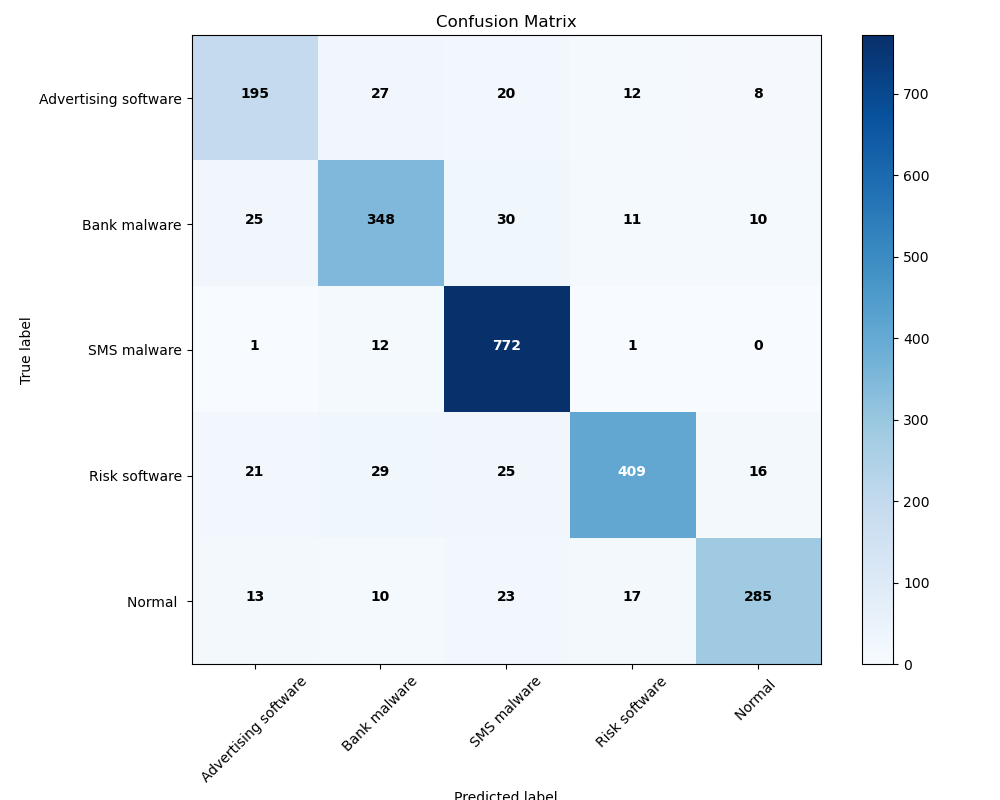
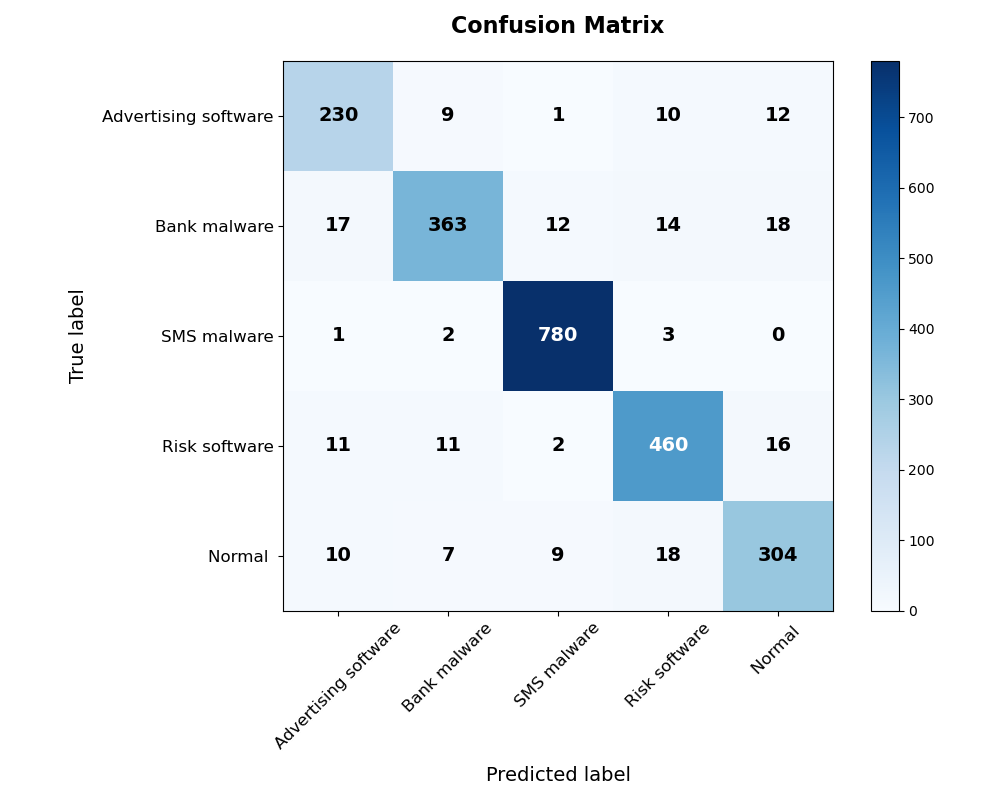
Add files via upload

diff --git a/templates/index.html b/templates/index.html
@@ -2,61 +2,78 @@
 <html lang="en">
 <head>
     <meta charset="UTF-8">
+    <meta name="viewport" content="width=device-width, initial-scale=1.0">
     <title>Model Results</title>
     <style>
         body {
-            font-family: 'Arial', sans-serif;
+            font-family: 'Segoe UI', Tahoma, Geneva, Verdana, sans-serif;
             margin: 0;
             padding: 0;
-            background: #f7f7f7;
+            background: #edf2f7;
+            color: #333;
         }
         .container {
-            width: 95%;
-            margin-top: 20px;
+            max-width: 95%;
+            margin: 2% auto;
             padding: 20px;
-            text-align: center;
+            background: #fff;
+            box-shadow: 0 0 10px rgba(0, 0, 0, 0.1);
+            border-radius: 8px;
+            overflow: hidden;
         }
-        .graph {
-            margin-bottom: 20px;
+        .header {
+            background-color: #4a5568;
+            color: #fff;
+            padding: 10px 0;
+            margin-bottom: 30px;
         }
-        .graph img {
-            max-width: 80%; /* Adjust the width as needed */
-            margin-bottom: 20px;
+        h1 {
+            margin: 0;
         }
-        .full-row img {
-            max-width: 60%; /* Adjust for the training loss graph */
-        }
-        .half-row {
+        .graph-container {
             display: flex;
+            flex-wrap: wrap;
             justify-content: space-around;
+            align-items: center;
         }
-        .half-row img {
-            max-width: 45%; /* Adjust for the ROC and PR curves */
+        .graph-container div {
+            flex: 0 1 48%;
+            margin-bottom: 20px;
+        }
+        img {
+            max-width: 100%;
+            height: auto;
+            border: 1px solid #ddd;
+            border-radius: 4px;
+            box-shadow: 0 2px 4px rgba(0, 0, 0, 0.05);
         }
         pre {
-            background: #fff;
-            padding: 20px;
+            background: #f7fafc;
+            padding: 15px;
             overflow: auto;
-            border: 1px solid #ddd;
+            border: 1px solid #e2e8f0;
+            border-radius: 4px;
+            font-size: 0.85em;
+            width: auto;
+            margin: 20px 0;
             text-align: left;
-            font-size: 1em; /* Adjust the font size as needed */
-            width: 80%; /* Adjust the width as needed */
-            margin: 20px auto; /* This will center the classification report */
+            white-space: pre-wrap;
+            word-wrap: break-word;
         }
     </style>
 </head>
 <body>
     <div class="container">
-        <h1>Training and Testing Results</h1>
-        <div class="full-row graph">
-            <img src="/results/train_loss.png" alt="Training Loss">
+        <div class="header">
+            <h1>Training and Testing Results</h1>
         </div>
-        <div class="graph">
-            <img src="/results/confusion_matrix.png" alt="Confusion Matrix">
+        <div class="graph-container">
+            <div><img src="/results/train_loss.png" alt="Training Loss"></div>
+            <div><img src="/results/confusion_matrix.png" alt="Confusion Matrix"></div>
         </div>
-        <div class="half-row">
-            <img src="/results/roc_curve.png" alt="ROC Curve">
-            <img src="/results/pr_curve.png" alt="Precision-Recall Curve">
+        <div class="graph-container">
+            <div><img src="/results/roc_curve.png" alt="ROC Curve"></div>
+            <div><img src="/results/pr_curve.png" alt="Precision-Recall Curve"></div>
         </div>
         <h2>Classification Report</h2>
         <pre>{{ report }}</pre>

diff --git a/templates/results.html b/templates/results.html
@@ -1,0 +1,66 @@
+<!DOCTYPE html>
+<html lang="en">
+<head>
+    <meta charset="UTF-8">
+    <title>Results</title>
+    <style>
+        body {
+            font-family: Arial, sans-serif;
+            background-color: #f4f4f4;
+            margin: 0;
+            padding: 20px;
+            color: #333;
+        }
+        h1 {
+            color: #5D6975;
+            text-align: center;
+            margin-bottom: 30px;
+        }
+        table {
+            width: 80%;
+            margin-left: auto;
+            margin-right: auto;
+            border-collapse: collapse;
+        }
+        th, td {
+            padding: 15px;
+            text-align: left;
+            border-bottom: 1px solid #ddd;
+        }
+        th {
+            background-color: #8FAADC;
+            color: white;
+            position: sticky;
+            top: 0;
+            z-index: 10;
+        }
+        tr:nth-child(even) {
+            background-color: #f2f2f2;
+        }
+        tr:hover {
+            background-color: #ddd;
+        }
+    </style>
+</head>
+<body>
+    <h1>Malware Detection Results</h1>
+    <table>
+        <thead>
+            <tr>
+                <th>Index</th>
+                <th>Prediction</th>
+                <th>Actual Label</th>
+            </tr>
+        </thead>
+        <tbody>
+            {% for result in results %}
+            <tr>
+                <td>{{ result[0] }}</td>
+                <td>{{ result[1] }}</td>
+                <td>{{ result[2] }}</td>
+            </tr>
+            {% endfor %}
+        </tbody>
+    </table>
+</body>
+</html>

diff --git a/templates/upload.html b/templates/upload.html
@@ -1,0 +1,51 @@
+<!DOCTYPE html>
+<html lang="en">
+<head>
+    <meta charset="UTF-8">
+    <title>Upload CSV File</title>
+    <style>
+        body {
+            font-family: 'Arial', sans-serif;
+            background-color: #f7f7f7;
+            text-align: center;
+            padding-top: 50px;
+        }
+        h1 {
+            color: #333;
+        }
+        form {
+            background-color: #fff;
+            padding: 40px;
+            margin: auto;
+            display: inline-block;
+            border-radius: 8px;
+            box-shadow: 0 4px 8px rgba(0, 0, 0, 0.1);
+        }
+        input[type=file] {
+            border: 2px solid #ddd;
+            padding: 10px;
+            border-radius: 4px;
+            margin-bottom: 20px;
+            width: 220px;
+        }
+        input[type=submit] {
+            background-color: #8FAADC;
+            color: white;
+            padding: 10px 20px;
+            border: none;
+            border-radius: 4px;
+            cursor: pointer;
+        }
+        input[type=submit]:hover {
+            background-color: #7c9abc;
+        }
+    </style>
+</head>
+<body>
+    <h1>Upload CSV for Malware Detection</h1>
+    <form action="/upload" method="post" enctype="multipart/form-data">
+        <input type="file" name="file" accept=".csv"><br>
+        <input type="submit" value="Upload">
+    </form>
+</body>
+</html>

diff --git a/network/AttentionCNN.py b/network/AttentionCNN.py
@@ -7,67 +7,45 @@
 # Datetime:2024/3/25 11:06
 # File:AttentionCNN.py
 # ------------------------------
-
 import torch
 import torch.nn as nn
 import torch.nn.functional as F
-from torchsummary import summary
-import time
-
 
 class Attention(nn.Module):
-    def __init__(self, feature_dim, step_dim, bias=True, **kwargs):
-        super(Attention, self).__init__(**kwargs)
-
-        self.feature_dim = feature_dim
-        self.step_dim = step_dim
-        self.bias = bias
-        self.attention = nn.Linear(feature_dim, 1, bias=bias)
+    """ 注意力机制模块 """
+    def __init__(self, in_features):
+        super(Attention, self).__init__()
+        self.attention_weights = nn.Linear(in_features, 1)
 
     def forward(self, x):
-        eij = self.attention(x)
+        weights = F.softmax(self.attention_weights(x), dim=1)
+        weighted_input = x * weights.expand_as(x)
+        return weighted_input, weights
 
-        # 计算注意力权重
-        eij = torch.tanh(eij)
-        a = torch.exp(eij)
-
-        # 归一化注意力权重
-        a = a / torch.sum(a, 1, keepdim=True) + 1e-10
-
-        weighted_input = x * a
-        return torch.sum(weighted_input, 1)
-
-
-class AttentionCNN(nn.Module):
-    def __init__(self, num_features):
-        super(AttentionCNN, self).__init__()
+class AttentionClassifier(nn.Module):
+    """ 带注意力机制的分类器 """
+    def __init__(self, num_features, num_classes):
+        super(AttentionClassifier, self).__init__()
         self.fc1 = nn.Linear(num_features, 256)
         self.fc2 = nn.Linear(256, 128)
-        self.fc3 = nn.Linear(128, 64)
-        self.fc4 = nn.Linear(64, 32)
-        self.fc5 = nn.Linear(32, 5)
-        self.relu = nn.ReLU()
-        self.dropout = nn.Dropout(0.5)
-        self.attention = Attention(feature_dim=64, step_dim=128)
+        self.attention = Attention(128)
+        self.fc3 = nn.Linear(128, num_classes)
 
     def forward(self, x):
-        x = self.relu(self.fc1(x))
-        x = self.dropout(x)
-        x = self.relu(self.fc2(x))
-        x = self.dropout(x)
-        x = self.relu(self.fc3(x))
+        x = F.relu(self.fc1(x))
+        x = F.relu(self.fc2(x))
+        weighted_x, attention_weights = self.attention(x)
+        out = self.fc3(weighted_x)
+        return out, attention_weights
 
-        # x = self.attention(x)
-        #
-        # x = self.dropout(x)
-        x = self.relu(self.fc4(x))
-        x = self.dropout(x)
-        x = self.fc5(x)
-        return x
+# 创建模型实例并测试
+num_features = 470  # 例如，假设我们有 470 个特征
+num_classes = 5     # 假设我们有 5 个分类
+model = AttentionClassifier(num_features, num_classes)
 
+# 假设输入的形状是 [batch_size, num_features]
+inputs = torch.rand(32, num_features)  # 32 是批量大小
+outputs, attention_weights = model(inputs)
 
-if __name__ == '__main__':
-    start_time = time.time()
-    model = AttentionCNN(num_features=470)
-    summary(model=model, input_size=(4000,470), batch_size=32, device="cpu")  # N-C-D-H-W
-    print("--- %s seconds ---" % (time.time() - start_time))
+print("Outputs shape:", outputs.shape)  # 应该是 [32, 5]
+print("Attention weights shape:", attention_weights.shape)  # 应该是 [32, 128]

diff --git a/tools/Calculation.py b/tools/Calculation.py
@@ -40,25 +40,31 @@ def plot_confusion_matrix(cm, class_names, title='Confusion Matrix', cmap=plt.cm
     """
     This function prints and plots the confusion matrix.
     """
-    fig = plt.figure(figsize=(10, 8))
-    plt.imshow(cm, interpolation='nearest', cmap=cmap)
-    plt.title(title)
-    plt.colorbar()
+    fig, ax = plt.subplots(figsize=(10, 8))
+    im = ax.imshow(cm, interpolation='nearest', cmap=cmap)
+
+
+    ax.set_title(title, pad=20, fontweight='bold', fontsize=16)
+    fig.colorbar(im, ax=ax)
 
     tick_marks = np.arange(len(class_names))
-    plt.xticks(tick_marks, class_names, rotation=45)
-    plt.yticks(tick_marks, class_names)
+    ax.set_xticks(tick_marks)
+    ax.set_xticklabels(class_names, rotation=45, fontsize=12)
+    ax.set_yticks(tick_marks)
+    ax.set_yticklabels(class_names, fontsize=12)
 
     threshold = cm.max() / 2.
     for i, j in itertools.product(range(cm.shape[0]), range(cm.shape[1])):
         color = "white" if cm[i, j] > threshold else "black"
-        plt.text(j, i, format(cm[i, j], 'd'),
-                 horizontalalignment="center", color=color, weight="bold")
+        ax.text(j, i, format(cm[i, j], 'd'),
+                ha="center", va="center", color=color, fontweight="bold", fontsize=14)
+
+    ax.set_ylabel('True label', fontsize=14, labelpad=10)
+    ax.set_xlabel('Predicted label', fontsize=14, labelpad=10)
+    ax.grid(False)
 
     plt.tight_layout()
-    plt.ylabel('True label')
-    plt.xlabel('Predicted label')
-    plt.grid(False)
 
-    plt.show()
+    # plt.show()  # 直接显示
+
     return fig

diff --git a/network/__init__.py b/network/__init__.py
@@ -9,4 +9,4 @@
 # ------------------------------
 
 from .SimpleCNN import SimpleCNN
-from .AttentionCNN import AttentionCNN
+from .AttentionCNN import AttentionClassifier
